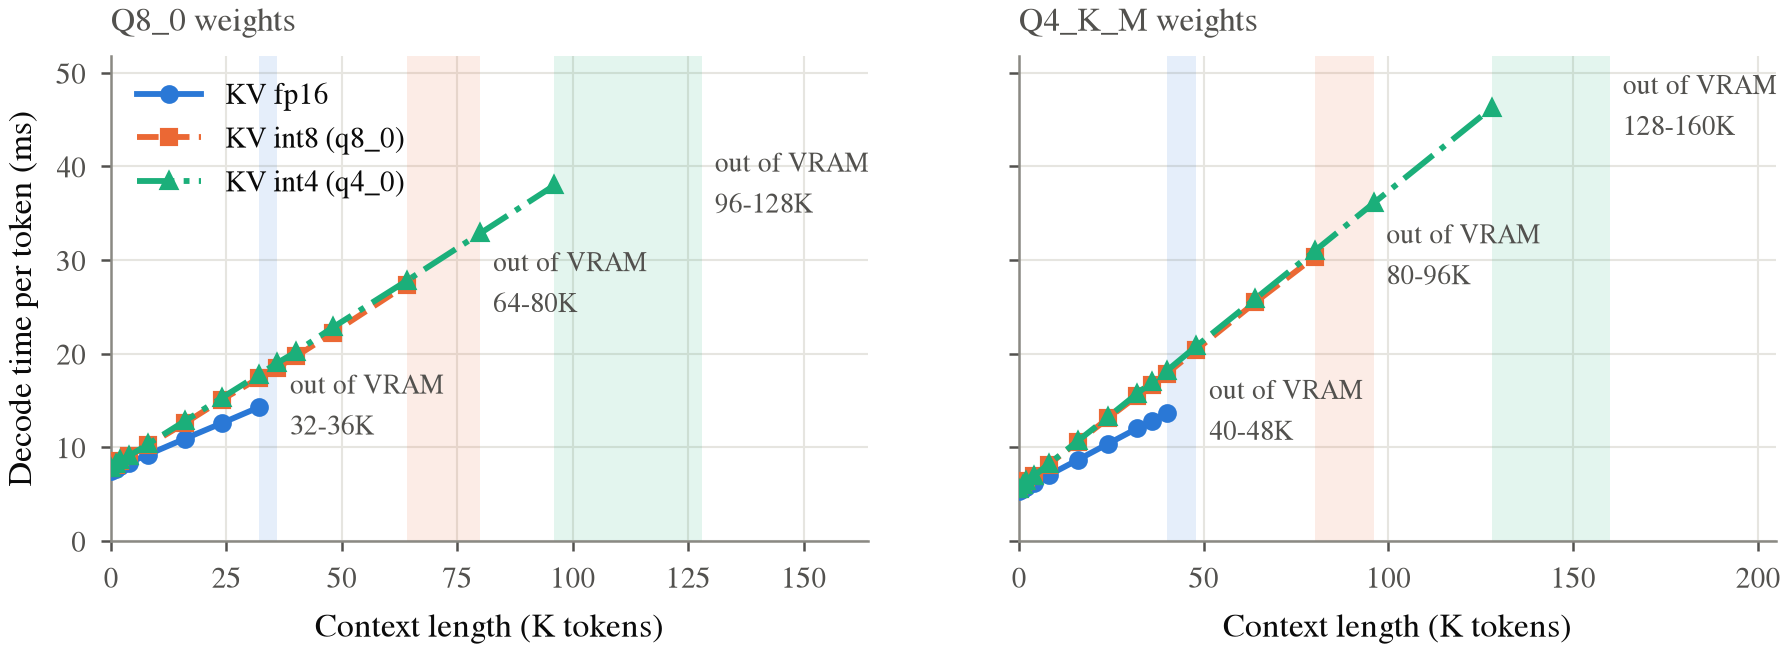
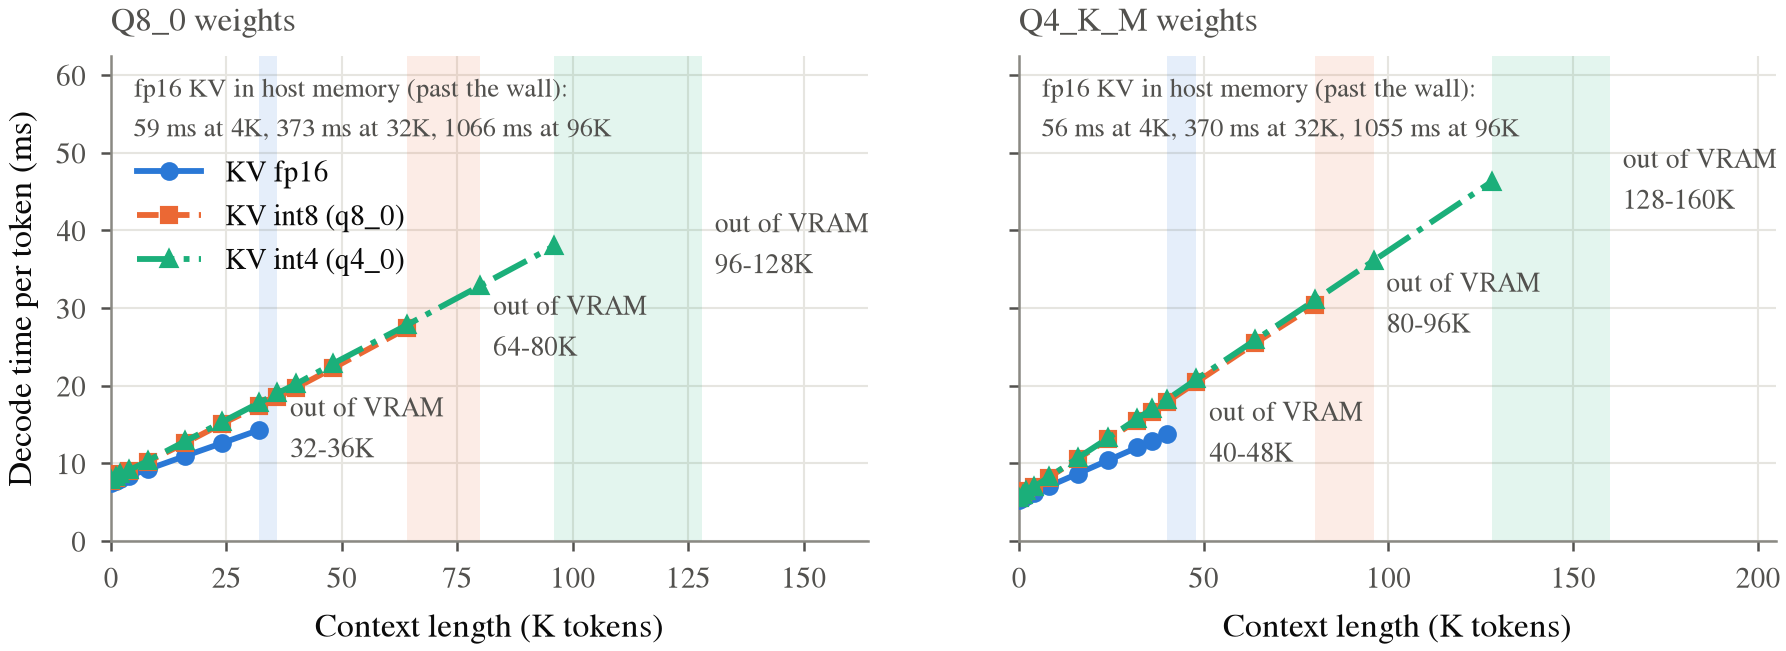
G2: past the VRAM wall the 3080 is 26x slower (KV in host memory)

diff --git a/figs/fig_gpu_wall.py b/figs/fig_gpu_wall.py
@@ -60,12 +60,17 @@ def draw(ax, weights, show_ylabel=True):
                         textcoords="offset points", va="center", ha="left", color=fs.INK_2, fontsize=6.5)
         for (kv2, mode), p in g2.items():
             if kv2 == kv:
-                ax.plot([d / 1024 for d, _ in p], [ms for _, ms in p], color=st["color"],
-                        linestyle=":", marker=st["marker"], markerfacecolor="white", zorder=3)
+                # KV in host memory: an order of magnitude off this scale, so it is stated, not drawn.
+                ms = dict(p)
+                at = [d for d in (4096, 32768, 98304) if d in ms]
+                txt = "fp16 KV in host memory (past the wall):\n" + ", ".join(
+                    f"{ms[d]:.0f} ms at {d // 1024}K" for d in at)
+                ax.annotate(txt, (0.03, 0.97), xycoords="axes fraction", va="top", ha="left",
+                            fontsize=6.3, color=fs.INK_2)
     ax.set_xlabel("Context length (K tokens)")
     if show_ylabel:
         ax.set_ylabel("Decode time per token (ms)")
-    ax.set_ylim(0, ymax * 1.12)
+    ax.set_ylim(0, ymax * 1.35)
     ax.set_xlim(0, max(fails.values()) / 1024 * 1.28 if fails else None)
     ax.set_title(f"{weights} weights", loc="left", color=fs.INK_2)
 
@@ -75,7 +80,7 @@ def main():
     fig, axes = plt.subplots(1, 2, figsize=(fs.PAGE_W, 2.1), sharey=True)
     draw(axes[0], "Q8_0")
     draw(axes[1], "Q4_K_M", show_ylabel=False)
-    axes[0].legend(loc="upper left")
+    axes[0].legend(loc="upper left", bbox_to_anchor=(0.0, 0.84))
     print(fs.save(fig, "gpu_wall"))
 
 

diff --git a/docs/autopilot.md b/docs/autopilot.md
@@ -23,7 +23,7 @@ Environment:
 | A2 | Build llama.cpp with CUDA (sm_86) | done (commit e3797b1) |
 | A3 | Download mini-coder-4b, convert to GGUF, quantize Q8_0 (+ Q4_K_M) | done |
 | G1 | llama-bench decode tok/s vs context depth, KV f16/q8_0/q4_0, FA on | done; figures/gpu_wall.pdf |
-| G2 | Past the wall: -nkvo 1 (KV in host memory); record the step | running (gpu/g2_sweep.sh) |
+| G2 | Past the wall: -nkvo 1 (KV in host memory); record the step | done: 26x cliff past the wall |
 | H1 | Integrator v0: model spec, decode op graph(L), tech library, mapping, transfer/launch/α·N, KV writes, capacity | done |
 | H2 | Test: reproduce soc_inference_estimator.py BitNet numbers under its assumptions | done (exact, 6 cases) |
 | H3 | CPU per-op profile of decode ops at mini-coder-4b shapes on this host (C microbenchmark) | done; results/cpu/cpu_ops.tsv |
@@ -86,3 +86,5 @@ Environment:
 - 18:05 Froze the workload: traces/workload_main.tsv lists the 89 sessions every search result used; experiments/common.sessions() loads only those by default (which="extra" for later ones), so the 11 new sessions cannot change the search/held-out split. Started the 11 remaining sessions (f16 server, CPU now idle).
 - 18:35 11 late sessions done: 7 Submitted, 4 hit the 32K fp16 wall (36%). Re-ran those 4 with int8 KV at 64K (3 Submitted; sympy-23413 250-step limit). `pkill -f "llama-server .*mini-coder-4b"` again killed its own shell (the pattern matches the command line); use `pkill -x llama-server` from now on.
 - 19:05 Second held-out set: walk design 15.4x (14.1x without the 250-turn sympy-23413), 5-month design 12.1x. These tasks spend less time in tools (tools-only bound 54x vs 17x), so the gain is higher; reported separately, not pooled into the headline. G2 started (KV in host memory, fp16, both weight formats).
+- 19:20 G2 done: with fp16 KV in host memory (-nkvo 1) the 3080 decodes at 59 ms/token at 4K, 373 ms at 32K, 1.07 s at 96K (Q8_0; Q4_K_M within 3%). Past the wall the GPU is 26x slower than in VRAM at the same depth: the wall is a cliff, not a slope. gpu_wall figure states these numbers (they are off its scale).
+- 19:25 Area knobs added from ISAAC Table I (via a literature subagent): lean tile (no eDRAM buffer/bus, 47% of a tile, 2 months, assumption), ADCs per IMA 8/4/2 (31% of a tile; read time x8/n), 4-bit cells (half the arrays, 1.27x area per array derived from ISAAC's -21% CE, 1 us write-verify writes, 3 months). Headline design: lean tile keeps 9.42x at 5,833 mm2; lean + 4-bit cells 8.95x at 3,692 mm2. 55% of the headline's arrays hold KV for the one 64K session. Iso-area study running (experiments/area_sweep.py).
